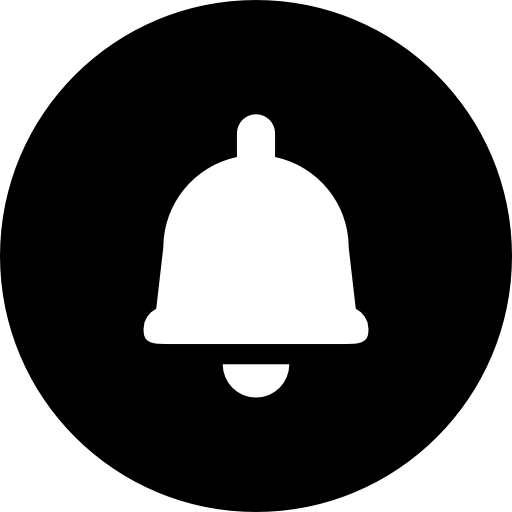
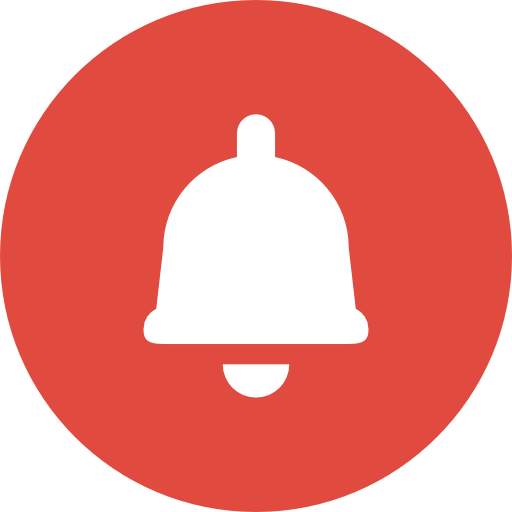
p2_codesign

diff --git a/avisos.html b/avisos.html
@@ -10,17 +10,16 @@
     <script type="text/javascript" src="js/jquery-3.1.1.min.js"></script>
     <title>Aplicativo</title>
   </head>
-  <body>
+  <body class="fundo">
     <header>
       <a href="index.html"><img class="circular-shape circular-shape-left" src="img/left-arrow.png" /></a>
       <p class="menutext" style="margin-left: 140px;">Avisos</p>
-      <img class="circular-shape circular-shape-right" src="img/circular-shape.png" alt="" />
     </header>
     <main>
       <div>
-        <a href="add_aviso.html"><img class="warning-icon" src="img/circular-shape.png" /></a>
+        <a href="add_aviso.html"><img class="warning-icon" src="img/notification.png" /></a>
         <p class="warning-text">Comunicados</p>
-        <a href="add_advertencia.html"><img class="warning-icon" src="img/circular-shape.png" style="margin-top: 200px;" /></a>
+        <a href="add_advertencia.html"><img class="warning-icon" src="img/warning_2.png" style="margin-top: 200px;" /></a>
         <p class="warning-text" style="margin-top: 220px;">Advertências</p>
       </div>
     </main>

diff --git a/add_carta.html b/add_carta.html
@@ -12,11 +12,10 @@
 
     <title>Aplicativo</title>
   </head>
-  <body>
+  <body class="fundo">
     <header>
       <a href="cartas.html"><img class="circular-shape circular-shape-left" src="img/left-arrow.png" /></a>
       <p class="menutext" style="margin-left: 80px;">Registrar Carta</p>
-      <img class="circular-shape circular-shape-right" src="img/circular-shape.png" alt="" />
     </header>
     <main>
       <div>
@@ -39,7 +38,7 @@
           <input type="text" name="tipo_de_carta" value="  "><br><br>
           Código de Rastreamento:<br>
           <input type="text" name="tipo_de_carta" value="  "><br><br>
-          
+
           <img class="camera-icon" src="img/camera.png" alt="" />
           <div style="width: 0; height: 0; overflow: hidden;">
           <input type="file" accept="image/*" capture="camera" id="cameraInput" name="cameraInput">

diff --git a/historico-carta.html b/historico-carta.html
@@ -10,11 +10,10 @@
     <script type="text/javascript" src="js/jquery-3.1.1.min.js"></script>
     <title>Aplicativo</title>
   </head>
-  <body>
+  <body class="fundo">
     <header>
       <a href="cartas.html"><img class="circular-shape circular-shape-left" src="img/left-arrow.png" /></a>
       <p class="menutext" style="margin-left: 60px;">Histórico de Carta</p>
-      <img class="circular-shape circular-shape-right" src="img/circular-shape.png" alt="" />
     </header>
     <main>
       <div>

diff --git a/add_advertencia.html b/add_advertencia.html
@@ -10,11 +10,10 @@
     <script type="text/javascript" src="js/jquery-3.1.1.min.js"></script>
     <title>Aplicativo</title>
   </head>
-  <body>
+  <body class="fundo">
     <header>
       <a href="avisos.html"><img class="circular-shape circular-shape-left" src="img/left-arrow.png" /></a>
       <p class="menutext" style="margin-left: 65px;">Nova Advertência</p>
-      <img class="circular-shape circular-shape-right" src="img/circular-shape.png" alt="" />
     </header>
     <main>
       <div>

diff --git a/add_aviso.html b/add_aviso.html
@@ -10,11 +10,10 @@
     <script type="text/javascript" src="js/jquery-3.1.1.min.js"></script>
     <title>Aplicativo</title>
   </head>
-  <body>
+  <body class="fundo">
     <header>
       <a href="avisos.html"><img class="circular-shape circular-shape-left" src="img/left-arrow.png" /></a>
       <p class="menutext" style="margin-left: 60px;">Novo Comunicado</p>
-      <img class="circular-shape circular-shape-right" src="img/circular-shape.png" alt="" />
     </header>
     <main>
       <div>

diff --git a/cartas.html b/cartas.html
@@ -10,11 +10,10 @@
     <script type="text/javascript" src="js/jquery-3.1.1.min.js"></script>
     <title>Aplicativo</title>
   </head>
-  <body>
+  <body class="fundo">
     <header>
       <a href="index.html"><img class="circular-shape circular-shape-left" src="img/left-arrow.png" /></a>
       <p class="menutext" style="margin-left: 140px;">Cartas</p>
-      <img class="circular-shape circular-shape-right" src="img/circular-shape.png" alt="" />
     </header>
     <main>
       <div>
